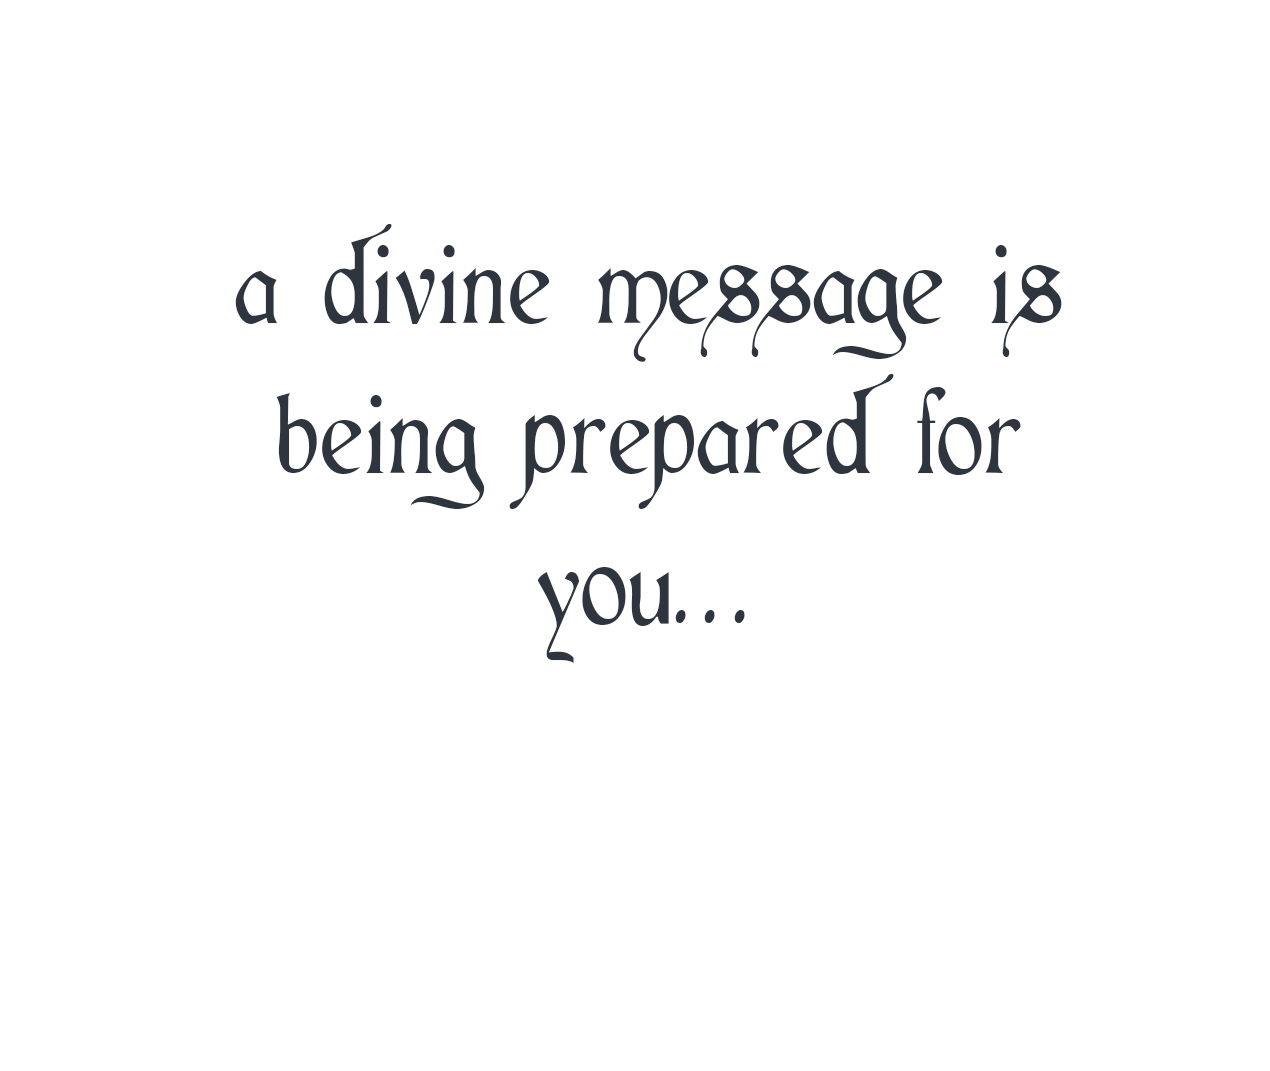
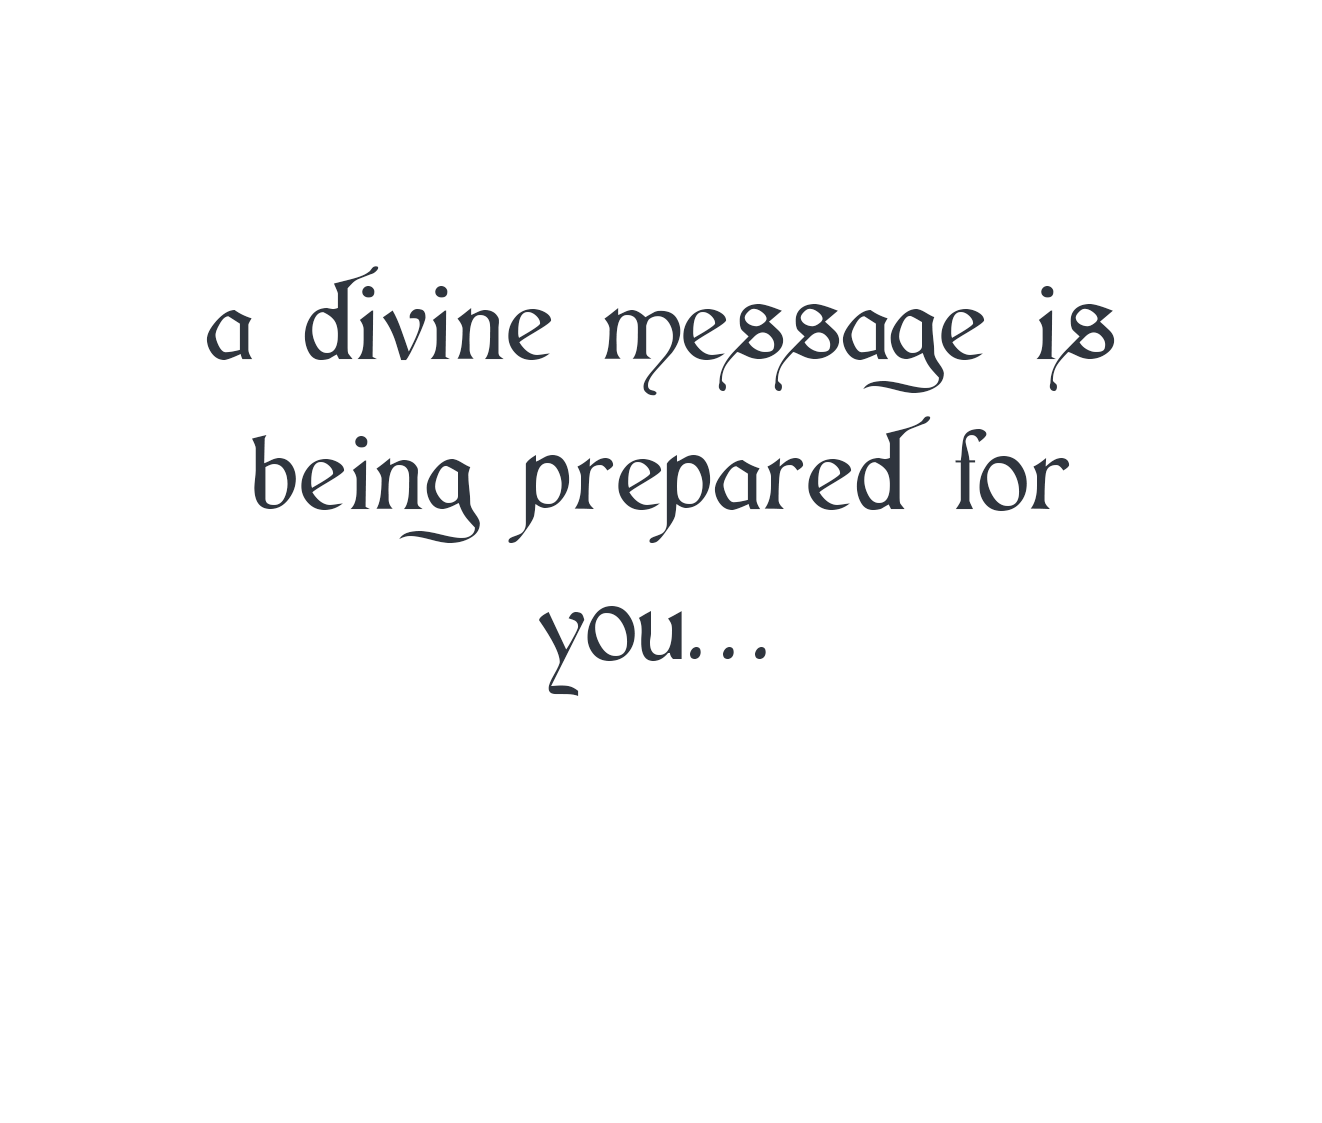
add card flip and randomised angel card for virtual angel popup

diff --git a/scripts/virtual-angel.js b/scripts/virtual-angel.js
@@ -1,6 +1,33 @@
 const virtualAngelIcon = document.querySelector('button[data-popup="virtual-angel-popup"]');
-
+const angelCard = document.getElementById('angel-card');
+const britneyBackground = document.getElementById('britney-background');
+const divineMessage = document.getElementById('divine-message');
 const angelSounds = ["./audio/britney-sound2.mp3", "./audio/britney-sound1.mp3"];
+const angelCards = ["./images/virtual-angel/GRETA.gif", "./images/virtual-angel/MIK.gif",
+                    "./images/virtual-angel/MUM.gif", "./images/virtual-angel/OSCAR.gif",
+                    "./images/virtual-angel/SANTANA.gif"]
+const card = document.querySelector(".card");
+
+
+function showAngelCard() {
+    angelCard.src = angelCards[Math.floor(Math.random() * angelCards.length)]
+    card.classList.toggle("flipped");
+    divineMessage.style.display = "none";
+    
+}
+
+function resetAngelCard() {
+    card.classList.remove("flipped");
+    divineMessage.style.display = "block";
+}
+
+document.addEventListener("click", (e) => {
+    const closeBtn = e.target.closest("[data-close='virtual-angel-popup']");
+    if (!closeBtn) return;
+
+    resetAngelCard();
+});
+
 let currentSound = 0;
 
 virtualAngelIcon.addEventListener('pointerdown', (e) => {
@@ -9,4 +36,8 @@ virtualAngelIcon.addEventListener('pointerdown', (e) => {
     audio.play();
 
     currentSound = (currentSound + 1) % angelSounds.length;
+
+    setTimeout(() => {
+        showAngelCard();
+    }, 5000);
 });

diff --git a/css/virtual-angel.css b/css/virtual-angel.css
@@ -15,13 +15,60 @@
 }
 
 
+#angel-card {
+    width: auto;
+    height: 100%;
+    top: 0;
+    right: 0;
+    position: relative;
+    display: block;
+}
+
+.card {
+    position: relative;
+    width: 100%;
+    height: 100%;
+    transform-style: preserve-3d;
+    transition: transform 0.8s ease;
+}
+
+
+.card.flipped {
+    transform: rotateY(180deg);
+}
+
+.card img {
+    backface-visibility: hidden;
+    position: absolute;
+}
+
+.back {
+    transform: rotateY(180deg);
+}
+
 /* ============================================================
    Mobile (≤ 768px)
    ============================================================ */
 @media (max-width: 768px) {
+    #angel-card {
+        width: 100%;
+        height: auto;
+        display: block;
+    }
+
     #britney-background {
         width: 100%;
         height: auto;
         display: block;
+    }
+
+    #divine-message {
+        width: 45%;
+        height: auto;
+        top: 12%;
+        right: -2%;
+        position: absolute;
+        filter:
+            drop-shadow(0 0 5px #325e77)
     }
 }

diff --git a/base.html b/base.html
@@ -316,7 +316,11 @@
                 <span>your virtual angel</span>
                 <button class="popup-close" data-close="virtual-angel-popup" data-closemenu="virtual-angel-button">✕</button>
             </div>
-            <img id="britney-background" src="./images/virtual-angel/britney-with-background.gif">
+            
+            <div class="card">
+                <img class="front" id="britney-background" src="./images/virtual-angel/britney-with-background2.gif">
+                <img class="back" id="angel-card" src="./images/virtual-angel/GRETA.gif">
+            </div>
             <img id="divine-message" src="./images/virtual-angel/divine-message.png">
         </div>
     </div>

diff --git a/css/popups.css b/css/popups.css
@@ -80,6 +80,7 @@
     position: fixed;
     bottom: 100px;
     left: 12vw;
+    flex: 1;
     width: fit-content;
     height: clamp(300px, 70vh, 800px);
 }
@@ -243,8 +244,7 @@
     background: none;
     padding: 0;
     margin: 0;
-    height: 100%;
-    width: 100%;
+    padding-bottom: 35px;
 }
 
 #my-music-popup .popup-window {
